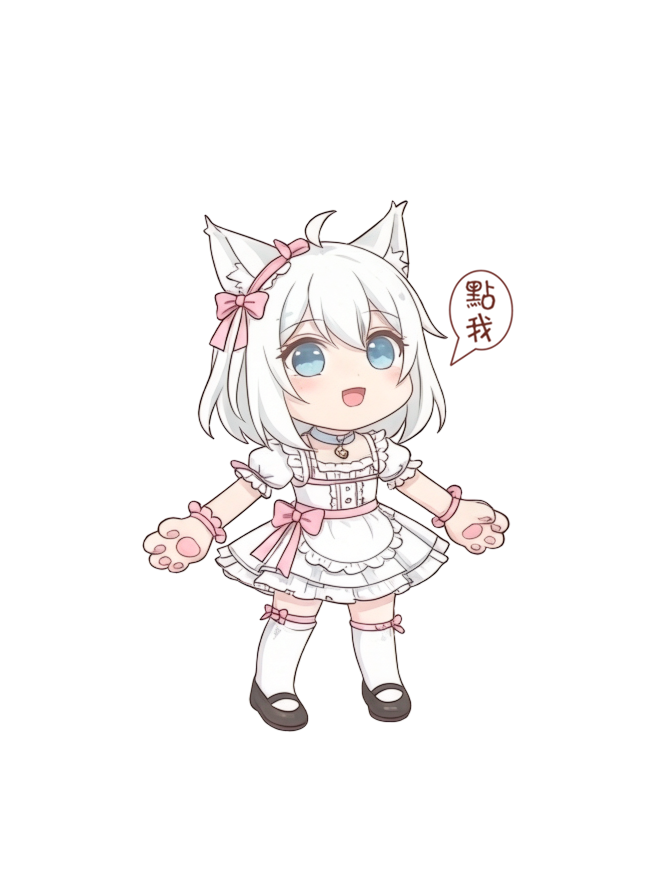
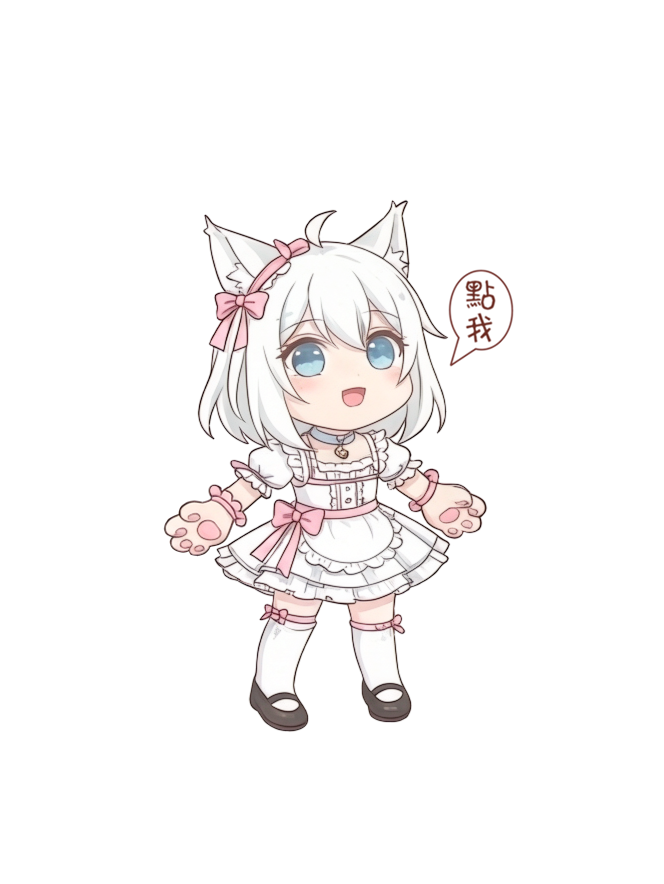
feat: tab横向滑动转场、头像/封面缓存优化、替换點我图片
- 三个主tab页面切换改为左右滑动转场，消除缩放转场的底部残影

- 我的页面首帧使用缓存profile，避免切换时头像闪回默认头像

- CachedImage占位改为surface底色并取消淡入动画，提高全局图片内存缓存上限至2000张/300MB，消除书架封面变灰重载

- 替换发现页點我图片

Changed region(s): [[0.6024, 0.5192, 0.7831, 0.6414], [0.2108, 0.5498, 0.3916, 0.6719]]

diff --git a/lib/misc/router.dart b/lib/misc/router.dart
@@ -36,6 +36,47 @@ final GlobalKey<NavigatorState> _rootNavigatorKey =
 final GlobalKey<NavigatorState> _shellNavigatorKey =
     GlobalKey<NavigatorState>(debugLabel: 'shell');
 
+/// Tab indices in the bottom navigation bar: 发现(home) -> 收藏 -> 我的.
+const int _tabIndexHome = 0;
+const int _tabIndexFavorites = 1;
+const int _tabIndexSettings = 2;
+
+/// The index of the tab currently displayed. It is updated while the
+/// matching tab page is built and is used to decide the horizontal slide
+/// direction when switching tabs. Starts at favorites (initialLocation).
+int _currentTabIndex = _tabIndexFavorites;
+
+/// Builds a tab page with a horizontal slide transition: switching to a
+/// tab on the right slides it in from the right, and switching to a tab
+/// on the left slides it in from the left. The outgoing page plays the
+/// reverse of its own entrance, so no zoom/fade residual is visible.
+Page<void> _buildTabPage({
+  required LocalKey key,
+  required int index,
+  required Widget child,
+}) {
+  if (!isMobilePhone) {
+    return MaterialPage<void>(key: key, child: child);
+  }
+  final forward = index >= _currentTabIndex;
+  _currentTabIndex = index;
+  final begin = forward ? const Offset(1.0, 0.0) : const Offset(-1.0, 0.0);
+  return CustomTransitionPage<void>(
+    key: key,
+    child: child,
+    transitionDuration: const Duration(milliseconds: 240),
+    reverseTransitionDuration: const Duration(milliseconds: 240),
+    transitionsBuilder: (context, animation, secondaryAnimation, child) {
+      return SlideTransition(
+        position: Tween<Offset>(begin: begin, end: Offset.zero)
+            .chain(CurveTween(curve: Curves.easeOut))
+            .animate(animation),
+        child: child,
+      );
+    },
+  );
+}
+
 // GoRouter configuration
 final routerConfig = GoRouter(
   navigatorKey: _rootNavigatorKey,
@@ -111,13 +152,25 @@ final _applicationShellRoutes = ShellRoute(
   routes: <RouteBase>[
     GoRoute(
       path: RoutePath.home,
-      builder: (context, state) => SearchScreen(
-        initialKeyword: state.uri.queryParameters['keyword'],
-      ),
+      pageBuilder: (context, state) {
+        return _buildTabPage(
+          key: const ValueKey('tab-home'),
+          index: _tabIndexHome,
+          child: SearchScreen(
+            initialKeyword: state.uri.queryParameters['keyword'],
+          ),
+        );
+      },
     ),
     GoRoute(
       path: RoutePath.favorites,
-      builder: (context, state) => const FavoritesScreen(),
+      pageBuilder: (context, state) {
+        return _buildTabPage(
+          key: const ValueKey('tab-favorites'),
+          index: _tabIndexFavorites,
+          child: const FavoritesScreen(),
+        );
+      },
       redirect: (context, state) async {
         final cookies = await getCookies();
         if (cookies.isEmpty) {
@@ -129,7 +182,13 @@ final _applicationShellRoutes = ShellRoute(
     ),
     GoRoute(
       path: RoutePath.settings,
-      builder: (context, state) => const SettingsScreen(),
+      pageBuilder: (context, state) {
+        return _buildTabPage(
+          key: const ValueKey('tab-settings'),
+          index: _tabIndexSettings,
+          child: const SettingsScreen(),
+        );
+      },
     ),
     if (isDesktop) ...[
       _novelScreenRoute,

diff --git a/lib/ui/widgets/cached_image.dart b/lib/ui/widgets/cached_image.dart
@@ -17,30 +17,30 @@ class CachedImage extends StatelessWidget {
 
   @override
   Widget build(BuildContext context) {
+    // Use the surface color (white in light mode, dark in night mode) as
+    // the placeholder so that a brief re-decode after the in-memory image
+    // cache evicts a cover is visually indistinguishable from the card.
+    final backgroundColor = Theme.of(context).colorScheme.surface;
     return CachedNetworkImage(
       width: width,
       height: height,
       imageUrl: url,
       fit: fit,
+      // Show cached images immediately instead of fading them in, which
+      // otherwise looks like the image is being reloaded on every rebuild.
+      fadeInDuration: Duration.zero,
+      fadeOutDuration: Duration.zero,
       progressIndicatorBuilder: (context, url, progress) {
-        return Container(
-          color: Colors.black45,
-          child: Center(
-            child: SizedBox(
-              width: 40,
-              height: 40,
-              child: CircularProgressIndicator(
-                value: progress.progress,
-              ),
-            ),
-          ),
-        );
+        return ColoredBox(color: backgroundColor);
       },
       errorWidget: (context, url, error) {
-        return Container(
-          color: Colors.black45,
-          child: const Center(
-            child: Icon(Icons.error),
+        return ColoredBox(
+          color: backgroundColor,
+          child: Center(
+            child: Icon(
+              Icons.broken_image_outlined,
+              color: Theme.of(context).colorScheme.outline,
+            ),
           ),
         );
       },

diff --git a/lib/bloc/screen/settings/settings_screen_bloc.dart b/lib/bloc/screen/settings/settings_screen_bloc.dart
@@ -15,7 +15,17 @@ class SettingsScreenBloc extends _SettingsScreenBloc {
   final profileRepository = getIt<ProfileRepository>();
   final favoritesRepository = getIt<FavoritesRepository>();
 
-  SettingsScreenBloc() : super(const SettingsScreenState()) {
+  SettingsScreenBloc()
+      : super(
+          // Seed the first frame from cached data so switching to the
+          // settings tab doesn't briefly show the default avatar (and
+          // "-" placeholders) before the async profile load completes.
+          SettingsScreenState(
+            profile: getIt<ProfileRepository>().cachedProfile,
+            favoritesCount:
+                getIt<FavoritesRepository>().cachedFavorites?.length,
+          ),
+        ) {
     on<SettingsScreenInitialized>(_onSettingsScreenInitialized);
     on<SettingsScreenProfileRequested>(_onSettingsScreenProfileRequested);
     on<SettingsScreenProfileRefreshed>(_onSettingsScreenProfileRefreshed);

diff --git a/lib/main.dart b/lib/main.dart
@@ -10,6 +10,13 @@ import 'package:window_manager/window_manager.dart';
 Future<void> main() async {
   WidgetsFlutterBinding.ensureInitialized();
 
+  // Raise the decoded-image cache limits so book covers survive the memory
+  // pressure created by other pages; otherwise returning to the bookshelf
+  // briefly shows placeholders while covers are re-decoded from disk.
+  PaintingBinding.instance.imageCache
+    ..maximumSize = 2000
+    ..maximumSizeBytes = 300 * 1024 * 1024;
+
   if (isDesktop) {
     await windowManager.ensureInitialized();
     const windowOptions = WindowOptions(title: '真白萌', center: true);

diff --git a/lib/data/repository/profile_repository.dart b/lib/data/repository/profile_repository.dart
@@ -11,6 +11,9 @@ class ProfileRepository {
 
   bool _needsRefresh = false;
 
+  /// Sync access to the cached profile, or null if not loaded yet.
+  Profile? get cachedProfile => _cachedProfile;
+
   Future<Profile> getProfile() async {
     if (_needsRefresh) {
       return refreshProfile();
